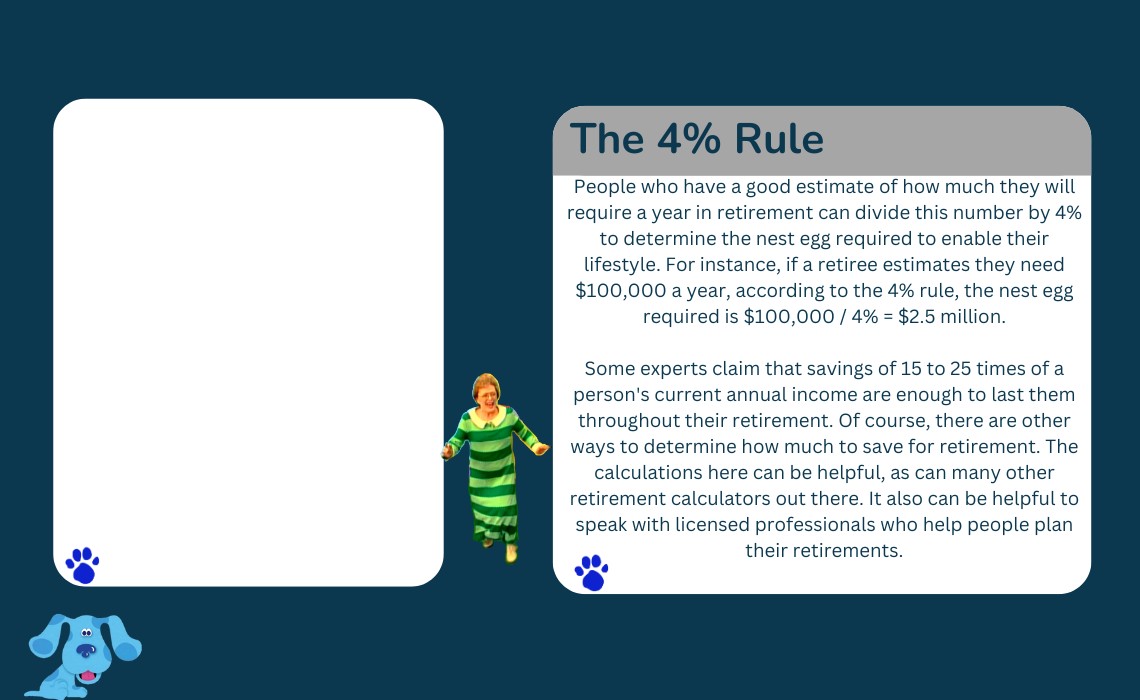
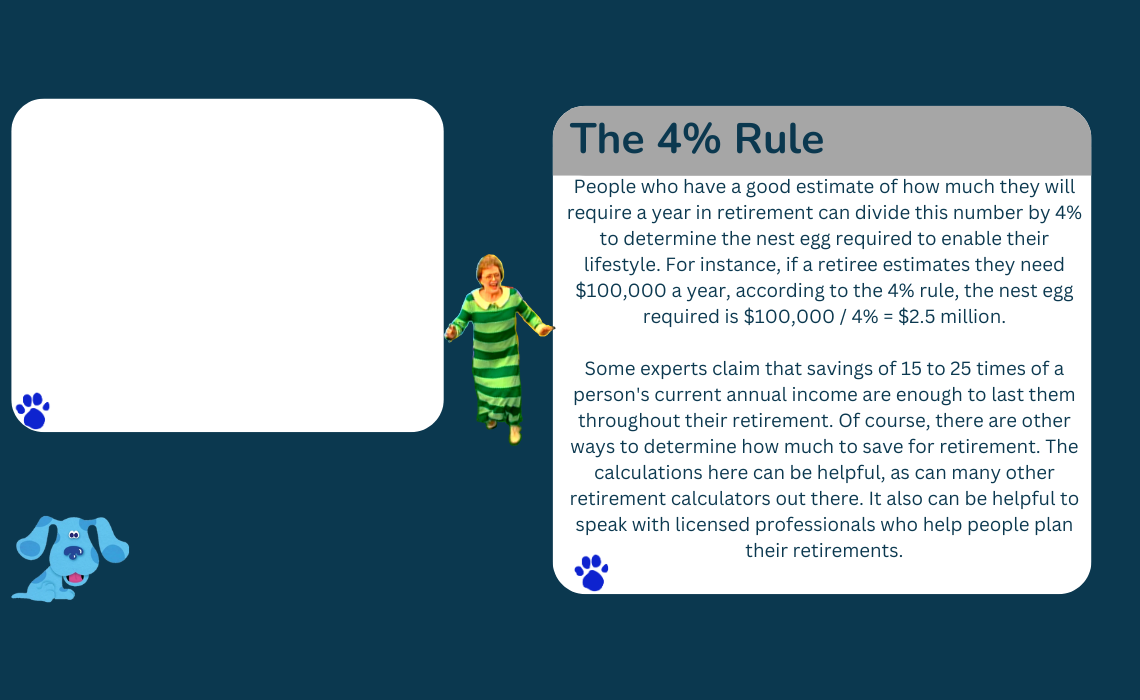
Finalize(?) Retirement Form
May clean some things up about it after I work on ROTH IRA

Changed region(s): [[0.0, 0.12, 0.4912, 1.0]]

diff --git a/src/main/RetirementCalculator.java b/src/main/RetirementCalculator.java
@@ -4,7 +4,7 @@
  */
 package main;
 
-import java.awt.BorderLayout;
+
 import java.awt.Color;
 import java.awt.Component;
 import java.awt.Dimension;
@@ -24,9 +24,9 @@ import org.jfree.chart.JFreeChart;
 import org.jfree.chart.plot.PlotOrientation;
 import org.jfree.data.category.DefaultCategoryDataset;
 import java.awt.GridBagConstraints;
-import java.awt.GridBagLayout;
 import java.io.File;
 import java.io.IOException;
+import java.util.Collections;
 import org.jfree.chart.axis.CategoryAxis;
 import org.jfree.chart.axis.CategoryLabelPositions;
 import org.jfree.chart.plot.CategoryPlot;
@@ -55,6 +55,7 @@ public class RetirementCalculator extends javax.swing.JFrame {
         INARpercent = true;
         Futurepercent = true;
         initComponents();
+        addChartToPanel(Collections.emptyList(), Collections.emptyList(), null, false, "Savings", "Needed");
         setResizable(false);
         FocusListener focusListenerLastFocused = new FocusListener() {
             @Override
@@ -134,7 +135,6 @@ public class RetirementCalculator extends javax.swing.JFrame {
                 String CA = CurrentAgeField.getText();
                 String LE = LifeExpField.getText();
                 Boolean ValidAge = RetirementHelper.validate_ages(RA, CA, LE);
-                System.out.println(ValidAge);
                 if (!ValidAge){
                 CalculateButton.setEnabled(false);
                 String message = RetirementHelper.generate_age_warning(RA, CA, LE);
@@ -376,7 +376,12 @@ public class RetirementCalculator extends javax.swing.JFrame {
         gbc.weighty = 1.0; // Stretch vertically
         gbc.fill = GridBagConstraints.BOTH; // Fill both horizontally and vertically
         
-        DefaultCategoryDataset dataset = createDataset(savingsData, neededData, CA, two_graphs, title_1, title_2);
+        DefaultCategoryDataset dataset = new DefaultCategoryDataset();;
+        
+        // Check if data exists, and fill the dataset only if valid data is provided
+        if (savingsData != null && !savingsData.isEmpty() && neededData != null && !neededData.isEmpty()) {
+            dataset = createDataset(savingsData, neededData, CA, two_graphs, title_1, title_2);
+        }
         
         // Create chart
         JFreeChart chart = ChartFactory.createLineChart(
@@ -402,7 +407,6 @@ public class RetirementCalculator extends javax.swing.JFrame {
         // Add the chart to a ChartPanel
         ChartPanel chartPanel = new ChartPanel(chart);
         chartPanel.setPreferredSize(new Dimension(800, 600));
-        System.out.println("Adding chart with data: " + savingsData);
         
         // Add the ChartPanel to the existing panel
         Graph.add(chartPanel, gbc);
@@ -567,6 +571,7 @@ public class RetirementCalculator extends javax.swing.JFrame {
         OutputLabel2 = new javax.swing.JLabel();
         OutputLabel3 = new javax.swing.JLabel();
         OutputLabel4 = new javax.swing.JLabel();
+        jLabel5 = new javax.swing.JLabel();
         Graph = new javax.swing.JPanel();
         Title1 = new javax.swing.JLabel();
         QuitButton = new javax.swing.JButton();
@@ -661,12 +666,12 @@ public class RetirementCalculator extends javax.swing.JFrame {
         HowMuch.add(INARField, new org.netbeans.lib.awtextra.AbsoluteConstraints(690, 160, 170, 40));
 
         Title3.setFont(getFontHeading());
-        Title3.setForeground(new java.awt.Color(51, 0, 204));
+        Title3.setForeground(new java.awt.Color(11, 56, 79));
         Title3.setText("Attributes");
         HowMuch.add(Title3, new org.netbeans.lib.awtextra.AbsoluteConstraints(50, 70, -1, -1));
 
         Title4.setFont(getFontHeading());
-        Title4.setForeground(new java.awt.Color(51, 0, 204));
+        Title4.setForeground(new java.awt.Color(11, 56, 79));
         Title4.setText("Optional");
         HowMuch.add(Title4, new org.netbeans.lib.awtextra.AbsoluteConstraints(90, 330, -1, -1));
 
@@ -748,8 +753,7 @@ public class RetirementCalculator extends javax.swing.JFrame {
         AmountLabel22.setText("/month");
         HowMuch.add(AmountLabel22, new org.netbeans.lib.awtextra.AbsoluteConstraints(380, 420, -1, -1));
 
-        WarningLabel.setFont(getFontParas());
-        WarningLabel.setForeground(new java.awt.Color(255, 255, 255));
+        WarningLabel.setForeground(new java.awt.Color(255, 51, 0));
         WarningLabel.setHorizontalAlignment(javax.swing.SwingConstants.CENTER);
         HowMuch.add(WarningLabel, new org.netbeans.lib.awtextra.AbsoluteConstraints(100, 0, 639, 46));
 
@@ -824,7 +828,7 @@ public class RetirementCalculator extends javax.swing.JFrame {
         HowMuch.add(infoBoxLabel2, new org.netbeans.lib.awtextra.AbsoluteConstraints(150, 370, 20, 23));
 
         Title5.setFont(getFontHeading());
-        Title5.setForeground(new java.awt.Color(51, 0, 204));
+        Title5.setForeground(new java.awt.Color(11, 56, 79));
         Title5.setText("Assumptions");
         HowMuch.add(Title5, new org.netbeans.lib.awtextra.AbsoluteConstraints(560, 80, -1, -1));
 
@@ -931,9 +935,9 @@ public class RetirementCalculator extends javax.swing.JFrame {
         AmountLabel26.setText("%/year");
         HowTo.add(AmountLabel26, new org.netbeans.lib.awtextra.AbsoluteConstraints(370, 290, -1, -1));
 
-        WarningLabel1.setForeground(new java.awt.Color(255, 51, 51));
+        WarningLabel1.setForeground(new java.awt.Color(255, 51, 0));
         WarningLabel1.setHorizontalAlignment(javax.swing.SwingConstants.CENTER);
-        HowTo.add(WarningLabel1, new org.netbeans.lib.awtextra.AbsoluteConstraints(116, 15, 639, 46));
+        HowTo.add(WarningLabel1, new org.netbeans.lib.awtextra.AbsoluteConstraints(110, 0, 639, 46));
 
         jLabel3.setIcon(new javax.swing.ImageIcon(getClass().getResource("/images/HowTo.png"))); // NOI18N
         HowTo.add(jLabel3, new org.netbeans.lib.awtextra.AbsoluteConstraints(0, 0, 1180, 600));
@@ -942,9 +946,10 @@ public class RetirementCalculator extends javax.swing.JFrame {
 
         Withdraw.setLayout(new org.netbeans.lib.awtextra.AbsoluteLayout());
 
-        WarningLabel2.setForeground(new java.awt.Color(255, 51, 51));
+        WarningLabel2.setBackground(new java.awt.Color(255, 255, 255));
+        WarningLabel2.setForeground(new java.awt.Color(255, 51, 0));
         WarningLabel2.setHorizontalAlignment(javax.swing.SwingConstants.CENTER);
-        Withdraw.add(WarningLabel2, new org.netbeans.lib.awtextra.AbsoluteConstraints(90, 0, 639, 46));
+        Withdraw.add(WarningLabel2, new org.netbeans.lib.awtextra.AbsoluteConstraints(0, 520, 550, 46));
 
         CalculateButton3.setBackground(new java.awt.Color(0, 100, 0));
         CalculateButton3.setForeground(new java.awt.Color(0, 0, 0));
@@ -1083,47 +1088,50 @@ public class RetirementCalculator extends javax.swing.JFrame {
 
         ResultTab.setLayout(new org.netbeans.lib.awtextra.AbsoluteLayout());
 
-        OutputLabel.setFont(new java.awt.Font("HP Simplified Jpan", 1, 12)); // NOI18N
+        OutputLabel.setFont(getFontParas());
         OutputLabel.setHorizontalAlignment(javax.swing.SwingConstants.CENTER);
         ResultTab.add(OutputLabel, new org.netbeans.lib.awtextra.AbsoluteConstraints(0, 226, 1100, 29));
 
-        TitleLabel.setFont(new java.awt.Font("HP Simplified", 3, 18)); // NOI18N
-        TitleLabel.setForeground(new java.awt.Color(51, 0, 204));
+        TitleLabel.setFont(getFontHeading());
+        TitleLabel.setForeground(new java.awt.Color(11, 56, 79));
         TitleLabel.setHorizontalAlignment(javax.swing.SwingConstants.CENTER);
         ResultTab.add(TitleLabel, new org.netbeans.lib.awtextra.AbsoluteConstraints(0, 44, 1100, 40));
 
-        TitleLabel1.setFont(new java.awt.Font("HP Simplified", 3, 18)); // NOI18N
-        TitleLabel1.setForeground(new java.awt.Color(51, 0, 204));
+        TitleLabel1.setFont(getFontHeading());
+        TitleLabel1.setForeground(new java.awt.Color(11, 56, 79));
         TitleLabel1.setHorizontalAlignment(javax.swing.SwingConstants.CENTER);
         ResultTab.add(TitleLabel1, new org.netbeans.lib.awtextra.AbsoluteConstraints(0, 168, 1100, 40));
 
-        OutputLabel1.setFont(new java.awt.Font("HP Simplified Jpan", 1, 12)); // NOI18N
+        OutputLabel1.setFont(getFontParas());
         OutputLabel1.setHorizontalAlignment(javax.swing.SwingConstants.CENTER);
         ResultTab.add(OutputLabel1, new org.netbeans.lib.awtextra.AbsoluteConstraints(0, 96, 1100, 29));
 
-        TitleLabel2.setFont(new java.awt.Font("HP Simplified", 3, 18)); // NOI18N
-        TitleLabel2.setForeground(new java.awt.Color(51, 0, 204));
+        TitleLabel2.setFont(getFontHeading());
+        TitleLabel2.setForeground(new java.awt.Color(11, 56, 79));
         TitleLabel2.setHorizontalAlignment(javax.swing.SwingConstants.CENTER);
-        ResultTab.add(TitleLabel2, new org.netbeans.lib.awtextra.AbsoluteConstraints(0, 273, 1100, 40));
+        ResultTab.add(TitleLabel2, new org.netbeans.lib.awtextra.AbsoluteConstraints(0, 290, 1100, 40));
 
-        OutputLabel2.setFont(new java.awt.Font("HP Simplified Jpan", 1, 12)); // NOI18N
+        OutputLabel2.setFont(getFontParas());
         OutputLabel2.setHorizontalAlignment(javax.swing.SwingConstants.CENTER);
-        ResultTab.add(OutputLabel2, new org.netbeans.lib.awtextra.AbsoluteConstraints(6, 360, 1090, 29));
+        ResultTab.add(OutputLabel2, new org.netbeans.lib.awtextra.AbsoluteConstraints(0, 390, 1090, 29));
 
-        OutputLabel3.setFont(new java.awt.Font("HP Simplified Jpan", 1, 12)); // NOI18N
+        OutputLabel3.setFont(getFontParas());
         OutputLabel3.setHorizontalAlignment(javax.swing.SwingConstants.CENTER);
-        ResultTab.add(OutputLabel3, new org.netbeans.lib.awtextra.AbsoluteConstraints(6, 325, 1090, 29));
+        ResultTab.add(OutputLabel3, new org.netbeans.lib.awtextra.AbsoluteConstraints(0, 340, 1090, 29));
 
-        OutputLabel4.setFont(new java.awt.Font("HP Simplified Jpan", 1, 12)); // NOI18N
+        OutputLabel4.setFont(getFontParas());
         OutputLabel4.setHorizontalAlignment(javax.swing.SwingConstants.CENTER);
         ResultTab.add(OutputLabel4, new org.netbeans.lib.awtextra.AbsoluteConstraints(6, 131, 1090, 29));
+
+        jLabel5.setIcon(new javax.swing.ImageIcon(getClass().getResource("/images/RetirementImage.png"))); // NOI18N
+        ResultTab.add(jLabel5, new org.netbeans.lib.awtextra.AbsoluteConstraints(0, 0, 1150, 600));
 
         RetirementTabs.addTab("Results", ResultTab);
 
         Graph.setLayout(new java.awt.GridBagLayout());
         RetirementTabs.addTab("Graph", Graph);
 
-        getContentPane().add(RetirementTabs, new org.netbeans.lib.awtextra.AbsoluteConstraints(0, 70, 1150, 620));
+        getContentPane().add(RetirementTabs, new org.netbeans.lib.awtextra.AbsoluteConstraints(0, 70, 1150, 600));
 
         Title1.setFont(getFontTitle());
         Title1.setForeground(new java.awt.Color(255, 255, 255));
@@ -1416,7 +1424,6 @@ public class RetirementCalculator extends javax.swing.JFrame {
         OutputLabel.setText("$" + MainHelper.formatCurrency(final_obtained));
         TitleLabel2.setText("HOW CAN YOU REACH THIS?");
         float percentHigher = Math.abs((float)final_needed - (float)final_obtained) / (((float)final_needed + (float)final_obtained)/2) / (Invest*100);
-        System.out.println(percentHigher);
         float savingsPercentage = RetirementHelper.Inverse_TORI(final_needed, LY, PIT, Invest, current, Increase);
         float yearlySavings = PIT * savingsPercentage;
 
@@ -1435,7 +1442,6 @@ public class RetirementCalculator extends javax.swing.JFrame {
         }
         float needed_PTI = PIT * (savingsPercentage);
         List<Integer> Required_TORI = RetirementHelper.Total_Obtained_Retirement_Income(LY, needed_PTI, Invest, current, Increase);
-        System.out.println(Required_TORI);
         addChartToPanel(TORI, Required_TORI, CA, final_needed > final_obtained, "Obtained", "Needed");
     }
     
@@ -1489,7 +1495,6 @@ public class RetirementCalculator extends javax.swing.JFrame {
         float invest = MainHelper.parseMoney(InvestField1.getText(), ",") / 100;
         
         float annual_investment = RetirementHelper.Inverse_PTI(needed, Living_Years, invest, Current);
-        System.out.println(annual_investment);
         float monthly_investment = annual_investment / 12;
         float current_needed = RetirementHelper.Current_Needed(invest, needed, Living_Years);
         
@@ -1536,8 +1541,6 @@ public class RetirementCalculator extends javax.swing.JFrame {
             inflationAdjustedMonthly = initialMonthlyWithdrawal/(float)(Math.pow(1+inflate, Retirement_Years));
   
         }
-        
-        System.out.println(inflationAdjustedMonthly);
         
         TitleLabel.setText("BALANCE AT RETIREMENT");
         OutputLabel1.setText("$" + MainHelper.formatCurrency(final_obtained) + " by age " + String.valueOf(RA));
@@ -1722,5 +1725,6 @@ public class RetirementCalculator extends javax.swing.JFrame {
     private javax.swing.JLabel jLabel2;
     private javax.swing.JLabel jLabel3;
     private javax.swing.JLabel jLabel4;
+    private javax.swing.JLabel jLabel5;
     // End of variables declaration//GEN-END:variables
 }

diff --git a/src/main/RetirementHelper.java b/src/main/RetirementHelper.java
@@ -31,13 +31,11 @@ public class RetirementHelper {
         List<Integer> TRRI = new ArrayList<>();
         float Yearly_Needs = (FIN - OIAR*12); //OIAR = Other Income After Retirement 
         float Yearly_Gets = OIAR*12;
-        System.out.println(Yearly_Needs);
         float Total_Needs = 0.0f;
         TRRI.add(0);
         for (int i = LE; i >= RA; i--) {
             Total_Needs += ((FIN * (float)Math.pow(1+Inflate,i-CA)) - Yearly_Gets) / (float)Math.pow(1 + Invest, i - RA + 1);
             TRRI.add(Math.round(Total_Needs));
-            System.out.println("Year " + i + " Total Needs (discounted): " + Total_Needs);
         }
         Collections.reverse(TRRI); // Reverse the list in-place for correct order
         return TRRI;
@@ -68,7 +66,6 @@ public class RetirementHelper {
 
     public static Integer Total_Obtained_Retirement_Income_At_Year(int Living_Years, float PTI, float Invest, float Current, float Increase) {
         float TORI = Math.round(Current * Math.pow(1 + Invest, Living_Years) + ((PTI * Math.abs(Math.pow(1 + Invest, Living_Years) - Math.pow(1 + Increase, Living_Years))) / Math.abs(Invest - Increase)));
-        System.out.println(TORI);
         return Math.round(TORI);
     }
     
@@ -161,22 +158,22 @@ public class RetirementHelper {
             LE = Integer.parseInt(Life_Expectency);
         }
         catch (NumberFormatException e) {
-            return "Ages must be valid whole number integers.";
+            return "⚠ Ages must be valid whole number integers.";
         }
 
         if (LE <= RA) {
-            return "Life expectancy needs to be larger than planned retirement age.";
+            return "⚠ Life expectancy needs to be larger than planned retirement age.";
         }
         
         if (RA < CA){
-            return "You are already in retirement";
+            return "⚠ You are already in retirement";
         }
         
         if (CA <= 0 || LE > 150) {
-            return "Please provide positive and reasonable ages"; 
+            return "⚠ Please provide positive and reasonable ages"; 
         }
         
-        return "Unknown error has occured";
+        return "⚠ Unknown error has occured";
     }
     
     public static Boolean validate_dynamic(String value, Boolean is_percent) {
@@ -230,7 +227,6 @@ public class RetirementHelper {
     
     public static float calculateInflationAdjustedMonthly(float final_obtained, float inflate, float invest, int years) {
         float sum = 0.0f;
-        System.out.println(final_obtained);
         for (int t = 0; t < years*12; t++) {
             sum += Math.pow(1 + inflate, t) / Math.pow(1 + invest, t);
         }
